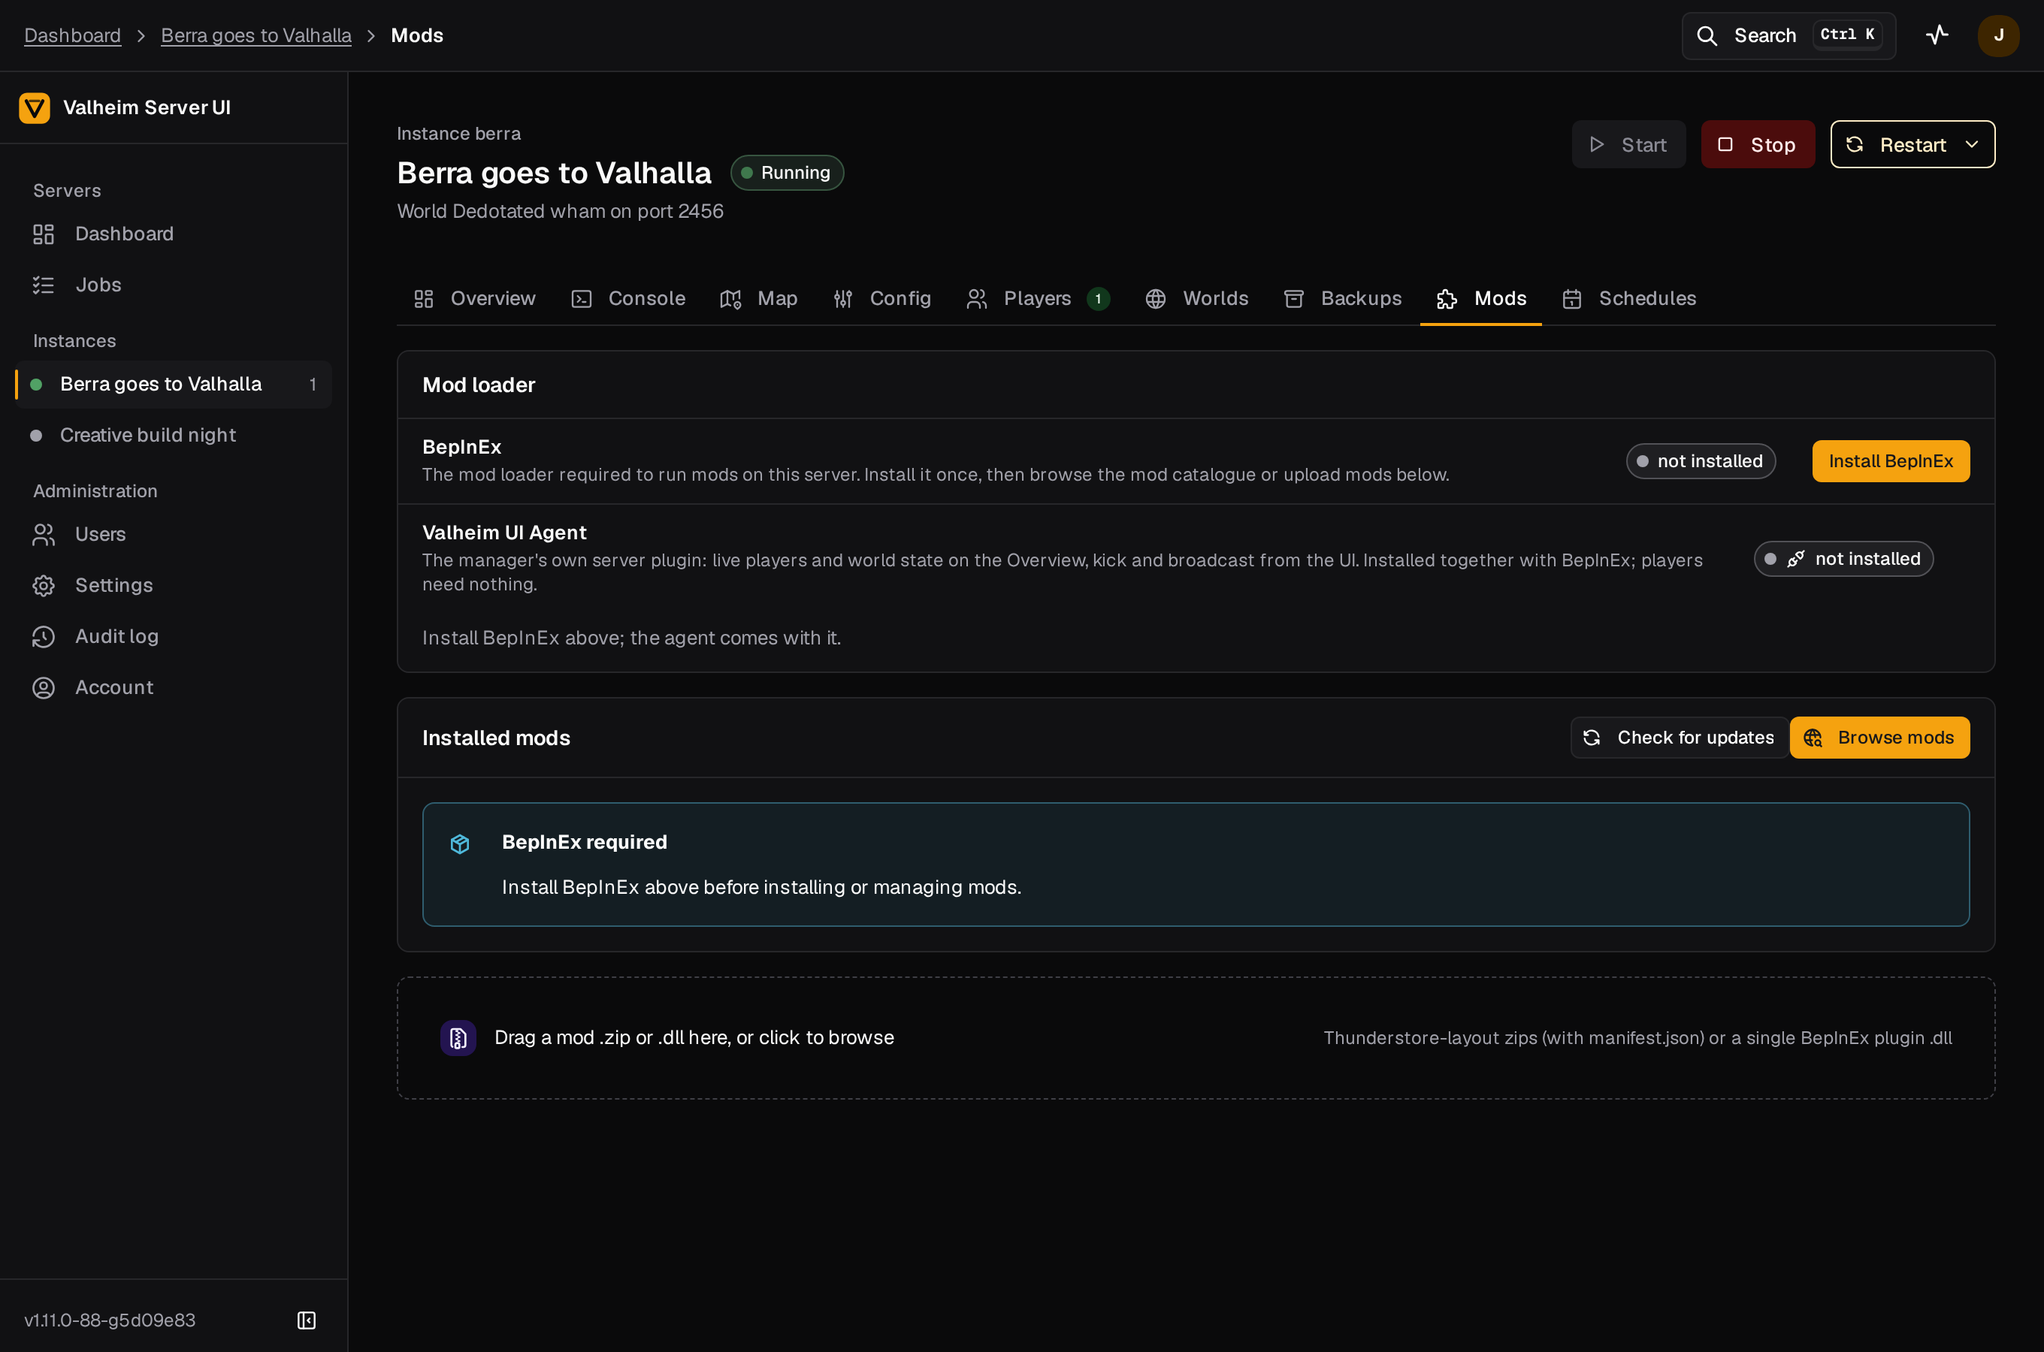
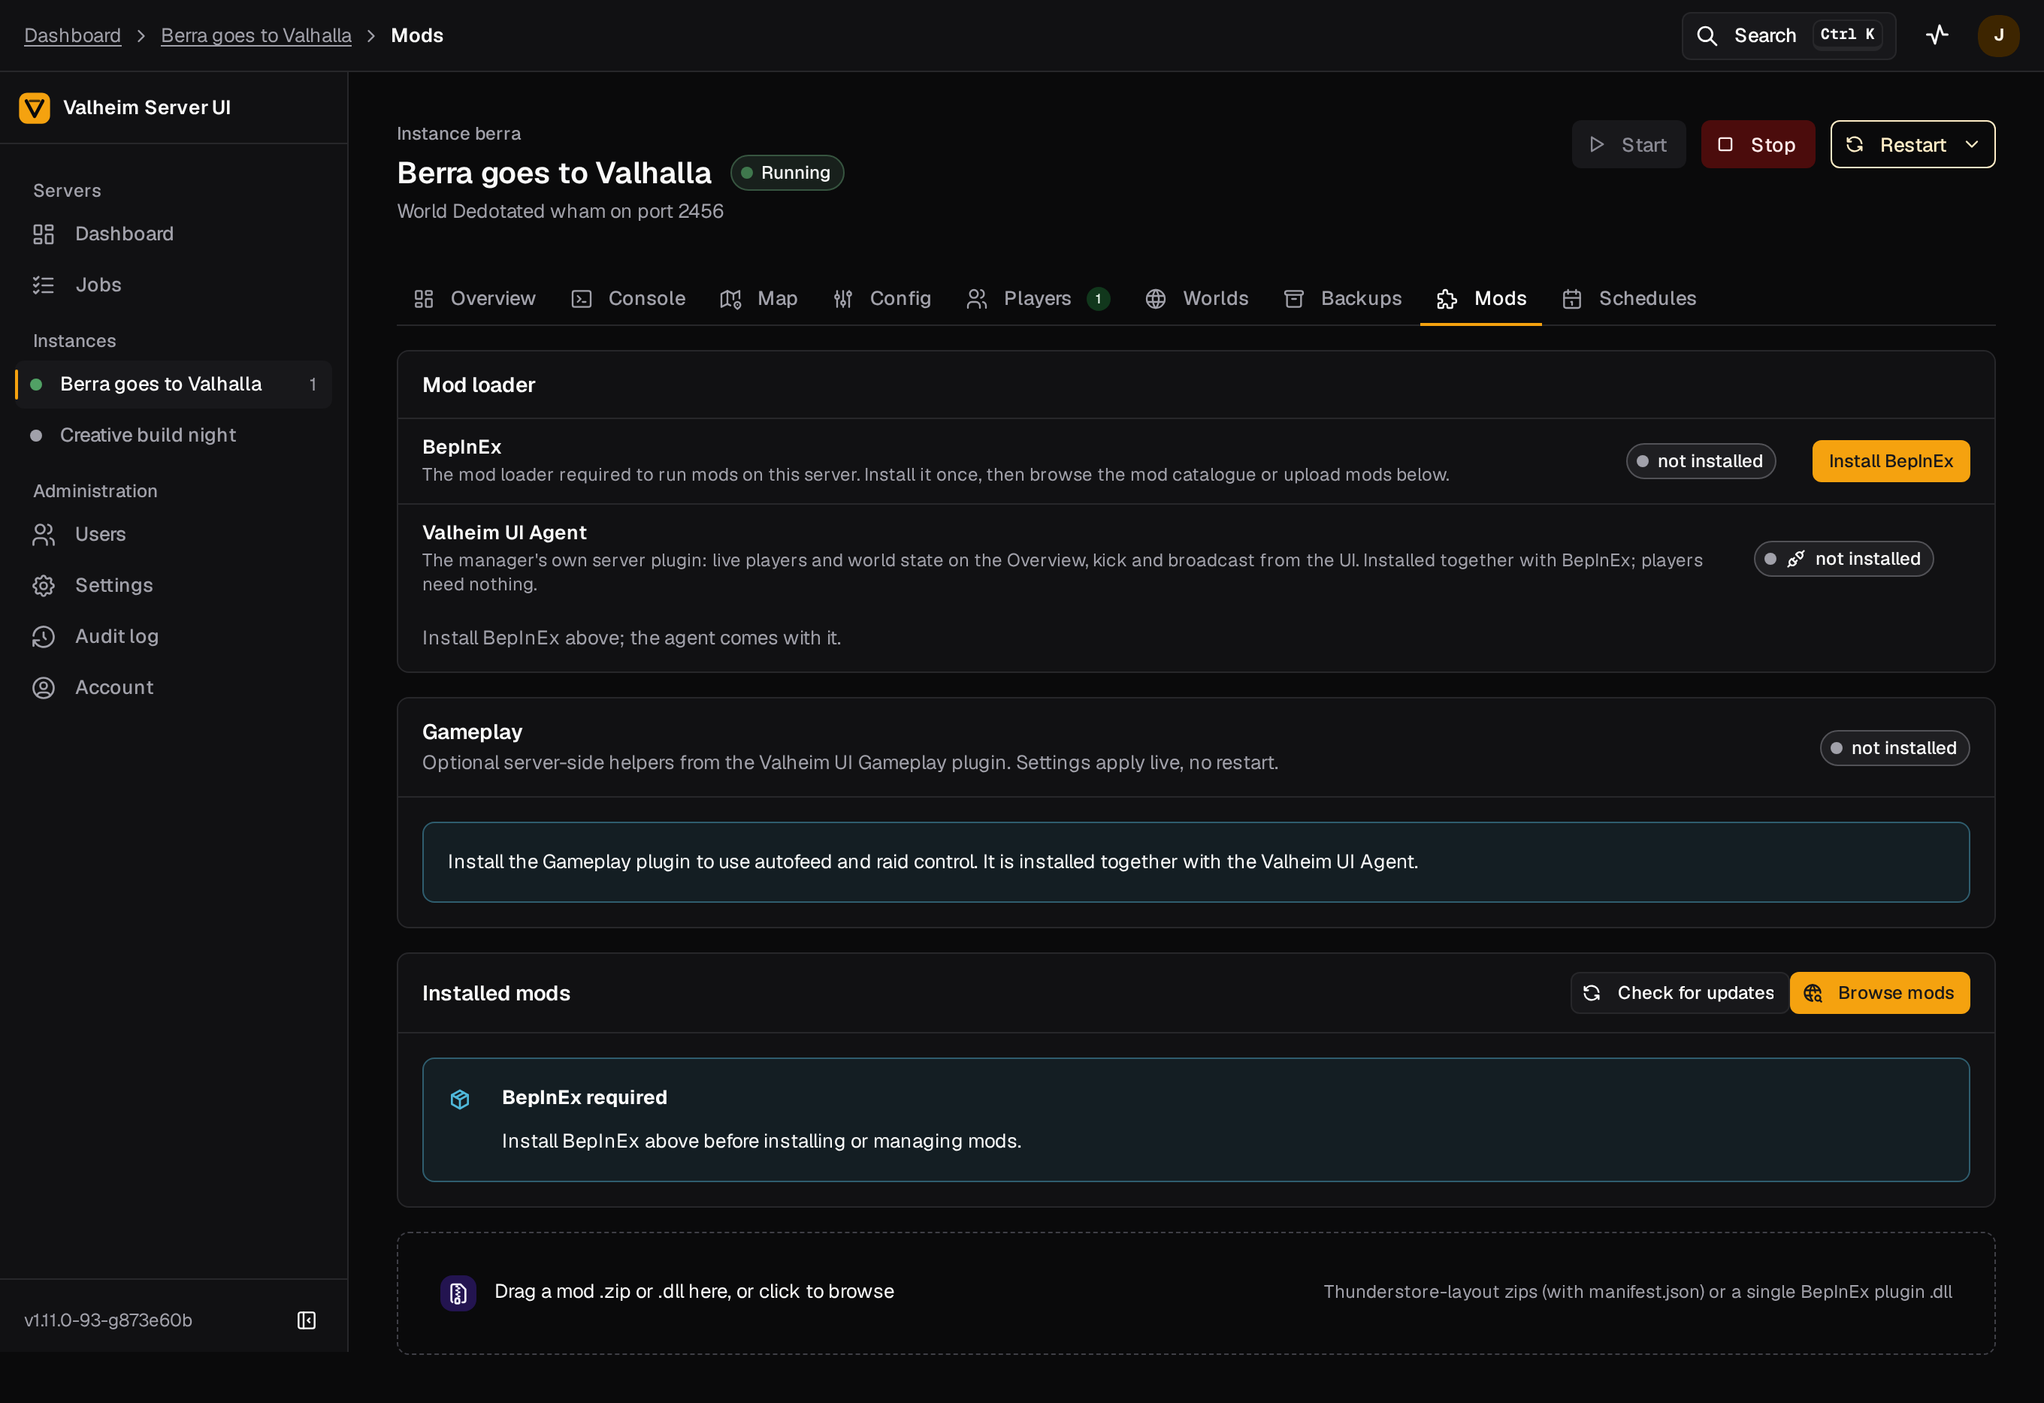
docs(gameplay): D-1 ARCHITECTURE §21, ADR-025, runbook rows, plugin README pointer

diff --git a/docs/ARCHITECTURE.md b/docs/ARCHITECTURE.md
@@ -950,3 +950,170 @@ explored or discovered by a shared boss pin. Shared pins are drawn
 regardless of the fog on their own layer; a boss pin that sits on a
 location is merged into that location's marker. Players are
 always drawn. Agents before 1.7.0 report no fog; the toggle explains why.
+
+## 21. Valheim UI Gameplay (server plugin)
+
+`ValheimUI.Gameplay` (`plugin/ValheimUI.Gameplay/`, C#, net472, BepInEx 5) is a
+second, opt-in server plugin: small gameplay tweaks (autofeed, a raid filter)
+that have nothing to do with the manager's own telemetry and control channel.
+It ships separately from the agent (ADR-025) so a server owner can disable or
+uninstall it without touching the live map, players panel or admin commands —
+and so it can later stand on its own on Thunderstore. GUID
+`se.jonasthim.valheimui.gameplay`, package `jonasthim-ValheimUI_Gameplay`
+(manifest `name` `ValheimUI_Gameplay`), DLL `ValheimUI.Gameplay.dll`, config
+`BepInEx/config/se.jonasthim.valheimui.gameplay.cfg`. Like the agent, it does
+nothing on a game client (`SystemInfo.graphicsDeviceType !=
+GraphicsDeviceType.Null` guard in `Awake()`) and never lets an exception
+escape `Update()` or a Harmony patch.
+
+**Config reference** (`Plugin.cs`'s `Config.Bind` calls; the manager's default
+copy is `gameplayConfigBody` in `internal/agent/config.go`):
+
+| Section | Key | Default | Range | Meaning |
+|---|---|---|---|---|
+| `Autofeed` | `Enabled` | `false` | — | Master switch for autofeed. |
+| `Autofeed` | `SignPrefix` | `feed` | — | Case-insensitive prefix of a sign's text that marks a chest as a feed chest. Empty marks every chest in range. |
+| `Autofeed` | `SignRadius` | `2.0` | 0.5–6 | Metres between the sign and the chest it marks. |
+| `Autofeed` | `Range` | `20` | 1–100 | Metres between a feed chest and the animal it can feed. |
+| `Autofeed` | `IntervalSeconds` | `30` | 5–600 | Seconds between scans for hungry animals. |
+| `Autofeed` | `Debug` | `false` | — | Logs each individual feed (animal prefab, chest prefab, distance). Added automatically if missing, so a hand-written cfg still loads. |
+| `Raids` | `Enabled` | `true` | — | Master switch for the raid filter. |
+| `Raids` | `Disabled` | (empty) | — | Comma-separated random event names that never start by themselves, e.g. `army_eikthyr,wolves`. The event command still starts them. |
+
+**Live reload.** A `FileSystemWatcher` on the cfg's directory (`ConfigReload.cs`)
+watches Created/Changed/Renamed — the manager writes the file atomically
+(tmp + rename), which surfaces as Renamed, not Changed — and marks the file
+dirty; `GameplayPlugin.Update()` calls `ConfigReload.Poll()`, which calls
+`Config.Reload()` on the main thread once the file has been quiet for 500 ms,
+guarded against reload storms by ignoring events for one second after a
+reload (BepInEx can touch the file itself). `Config.SettingChanged` then
+re-applies both features' values; the handler does not try to tell which
+entry moved and just re-applies everything, which is cheap.
+
+**Raid filter.** `RandEventSystem` (server-only) picks random events two
+ways, so the filter needs two Harmony patches (`RaidFilter.cs`):
+
+1. The normal path calls the private `GetPossibleRandomEvents()` to build the
+   candidate list, then picks one at random. A **postfix** on
+   `GetPossibleRandomEvents()` removes entries whose `RandomEvent.m_name` is
+   in `[Raids] Disabled` (case-insensitive) before anything is picked.
+2. "Standalone" events (`RandomEvent.m_standaloneInterval > 0`) are started
+   directly through the private `SetRandomEvent`, bypassing (1). A **prefix**
+   on `SetRandomEvent` returns `false` (skips the call) for a disabled name —
+   unless the call was forced by the public `SetRandomEventByName` (the
+   manager's `event` command and the game's own console command), which a
+   bypass flag (`_forced`, set by a prefix and always cleared by a
+   `HarmonyFinalizer` on `SetRandomEventByName`, so it never gets stuck true)
+   lets through regardless. Nothing is written to the world; a disabled raid
+   can always still be started deliberately.
+
+**Autofeed.** Tamed animals near players are simulated on the players'
+clients, so the server cannot call `MonsterAI`/`Tameable` methods on them
+directly. `Autofeed.cs` instead works on the ZDOs, the data the server owns
+the authoritative copy of and syncs to every peer, as a small state machine
+driven from `Update()`:
+
+- **Idle** until `Enabled` and `IntervalSeconds` have elapsed since the last
+  scan started.
+- **Scanning**: walks a one-time snapshot of every ZDO (a live
+  `Dictionary<ZDOID,ZDO>` is not safe to enumerate across frames) in slices
+  bounded by a 2 ms per-`Update()` budget — the same convention as the
+  agent's `MapRenderer.Step(budgetMs)` — bucketing each ZDO by its prefab's
+  components into signs with non-empty text, chests (`Container`) not
+  currently `InUse`, and tamed (`ZDOVars.s_tamed`) animals whose prefab has
+  both `Tameable` and a `MonsterAI` with at least one consumable item.
+- Once the snapshot is exhausted, **Match** and **Feed** run synchronously in
+  that `Update()` call: feed chests are chests within `SignRadius` of a sign
+  whose trimmed text starts with `SignPrefix` (every chest when `SignPrefix`
+  is empty); hungry tames are the game's own rule, `Tameable.IsHungry()`,
+  computed from the ZDO rather than the live component (most tamed animals in
+  the world are not loaded as game objects on the server): the time since
+  `ZDOVars.s_tameLastFeeding` exceeds `Tameable.m_fedDuration`. For each
+  hungry tame, the *nearest* feed chest within `Range` that still holds a
+  matching item (`Inventory` loaded once from `ZDOVars.s_items` via
+  `new ZPackage(bytes)`, `Load`) loses one unit (`RemoveOneItem`); the tame's
+  feeding timer is reset (`Set(ZDOVars.s_tameLastFeeding, …Ticks)`) and both
+  ZDOs are force-sent (`ZDOMan.ForceSendZDO`) so every peer picks the change
+  up at once. A chest's inventory is loaded once and saved once per scan even
+  if several animals eat from it; at most 200 feeds happen per scan.
+- Before matching, every candidate ZDO is re-validated against
+  `ZDOMan.instance.GetZDO(id)` by reference equality (`IsLive`): the scan
+  spans several frames, so an object destroyed meanwhile may have been
+  released to the ZDO pool and recycled, and only objects the world table
+  still maps to the same instance are used.
+- **Ownership caveat.** The plugin never takes ownership of a ZDO before
+  writing it. If the owning client overwrites the same ZDO in the same tick,
+  the feed is lost and simply retried on the next scan (eventually
+  consistent) — this is believed safe based on the design but not yet proven
+  live; the plugin README's validation protocol is the check. If it is not,
+  the documented (not implemented) fallback is to briefly take ownership of
+  the two ZDOs (`zdo.SetOwner(ZDOMan.GetSessionID())`, write, release next
+  frame).
+
+**Manager side** (`internal/agent`, `internal/mods/service.go`).
+
+- **Bundling.** `plugin/build.sh` builds both plugin projects and packages
+  two zips, `valheim-ui-agent.zip` and `valheim-ui-gameplay.zip` (same
+  Thunderstore layout). CI's `plugin` job uploads both in one `agent-plugin`
+  artifact; the release job copies both into `internal/agent/assets/`
+  (`//go:embed assets/*`) and lists both in `SHA256SUMS` and the release
+  notes.
+- `domain.BundledPlugin{Owner, Name, DLL, ConfigFile, Asset, Title,
+  EnvOverride}` describes each plugin; `domain.BundledAgent` and
+  `domain.BundledGameplay` are the two values. Env override
+  `VALHEIM_UI_GAMEPLAY_ZIP` mirrors `VALHEIM_UI_AGENT_ZIP` for local
+  development (`plugin/dist/*.zip` from `plugin/build.sh`), skipping the
+  embedded copy and the release download.
+- **Install.** `Service.installBundled(ctx, log, instanceID, plugin, bundle)`
+  is shared by both plugins: fetch the zip, extract it under the instance's
+  BepInEx directory, record it as a managed mod (source `bundled`). It runs
+  right after BepInEx (`installBepInEx`) and from
+  `EnqueueAgentInstall` (job type stays `agent_install`; job title "Install/
+  update Valheim UI plugins" — it now covers both). The agent's failure fails
+  the job; a missing or failing gameplay bundle is only a logged warning
+  ("… was not installed: …(install it later from the Mods tab)"), never a
+  failure of the agent install. After a successful gameplay install,
+  `agent.EnsureGameplayConfig(paths)` writes the default cfg
+  (`gameplayConfigBody`) atomically (tmp + rename) only if the file does not
+  exist yet, so the Gameplay card works before the first start; a failure to
+  write it is also only a warning.
+- **API.** No new endpoints. The card reads and writes the plugin's cfg
+  through the existing config-file endpoints (`GET`/`PUT
+  /instances/{id}/mods/configs/{fileName}`) and reads install state from the
+  mods overview (`mods[]` row `jonasthim-valheimui_gameplay`, `source:
+  bundled`, `version`) plus `agent.bundled_version` for "update available",
+  the same way the agent card does.
+
+**UI.** `GameplayCard` (`web/src/features/gameplay/`) sits on the Mods tab
+under the Mod loader card: header "Gameplay" with a pill (not installed /
+installed vX / update available), an Install/Update button for operators
+(reuses `useInstallAgent` and `openConfirmInstallAgent`, worded "plugins").
+Once installed, `useModConfig`/`useSaveModConfig(..., { notify: false })`
+back one form (`StickySaveBar`, `formId="gameplay-form"`,
+`useUnsavedChanges`) covering both sections: Autofeed's switch, sign prefix,
+sign radius, range and interval, and Raids' master switch plus a `DataTable`
+of raid names with a per-row "Allowed" `Switch`. The raid list comes from
+`useAgentCatalog` (connected agent, the world's real events) or the built-in
+`VANILLA_RAIDS` fallback (`web/src/features/gameplay/raids.ts`) when the agent
+is offline; `mergeRaidNames` (`gameplayConfig.ts`) keeps any name already in
+`Disabled` as a row even if it is unknown to either list, so nothing already
+switched off is lost from view. Saving shows "Gameplay settings saved,
+applied live". Viewers get the same controls disabled.
+
+**Testing.** Go: `internal/agent/agent_test.go`
+(`TestBundle_GameplayPluginIndependent`,
+`TestEnsureGameplayConfig_WritesDefaultOnceAndLeavesExistingFileAlone`) and
+`internal/mods/agent_test.go`
+(`TestInstallBepInEx_AlsoInstallsTheGameplayPluginAndDefaultCfg`,
+`TestInstallBepInEx_FailingGameplayBundleIsOnlyAWarning`, and an update-path
+case), all table-driven against a fake bundle, no network. Frontend:
+`gameplayConfig.test.ts` covers the pure cfg-entry mapping
+(`fromEntries`/`toUpdates`/`mergeRaidNames`) with Node's own test runner
+(`node --experimental-strip-types --test
+web/src/features/gameplay/gameplayConfig.test.ts`), since the e2e fake agent
+only reaches the "not installed" state. In-game: the plugin README's
+validation protocol (place a signed feed chest, tame animals nearby, toggle
+Autofeed from the manager, confirm the chest empties, the animals stop
+showing hungry, and a wrongly-signed or out-of-range chest/animal is left
+alone) is the check for the ZDO-ownership caveat above; it has not yet been
+run against a live server.

diff --git a/docs/DECISIONS.md b/docs/DECISIONS.md
@@ -224,3 +224,32 @@ reveal terrain (the server sees them), which matches the game's own rule
 that exploration is not secret. The table format is parsed best effort and
 skipped on error, so a game update can degrade history without breaking the
 map.
+
+## ADR-025 Gameplay tweaks ship as a second bundled plugin
+
+**Context.** Jonas asked for two gameplay changes that have nothing to do
+with telemetry or control: feed hungry tamed animals from sign-marked
+chests, and let specific random events (raids) be switched off. The agent
+(ADR-022) is the manager's control and telemetry channel and must stay
+harmless to gameplay — nothing it does should change what happens in the
+world. Folding these into the agent would mix that guarantee with features
+players might reasonably want to turn off independently, and would make the
+agent harder to keep stable across game updates.
+
+**Decision.** Ship the gameplay tweaks as a separate BepInEx plugin,
+`ValheimUI.Gameplay` (docs/ARCHITECTURE.md §21), bundled and installed the
+same way as the agent — with BepInEx, and from the same "Install/update
+Valheim UI plugins" job — but as its own assembly, package, cfg file and
+Mods-tab card. It can be disabled or uninstalled without touching the agent,
+the live map, or any other part of the manager, and could later be
+distributed on Thunderstore on its own.
+
+**Consequences.** Two plugin zips to build, test and release
+(`valheim-ui-agent.zip`, `valheim-ui-gameplay.zip`) instead of one; `plugin/
+build.sh` and the CI `plugin` job build and upload both, and the release job
+embeds both. One install job still covers both (the job type stays
+`agent_install`; only its title changed), so operators do not get a second
+button to press. No new API: the Gameplay card reuses the existing
+config-file endpoints. A failure to install or default-configure the
+gameplay plugin is only a warning, never a failure of the agent install,
+since the agent is the one the job (and BepInEx install) is named for.

diff --git a/README.md b/README.md
@@ -31,6 +31,7 @@ server into a Docker puzzle.
 | **Backups & worlds** | One-click or scheduled world backups, retention policy, restore with an automatic safety backup, world upload/download, switch the active world. |
 | **Mods** | Install BepInEx, browse and install from Thunderstore with dependency resolution, upload zips or DLLs, enable/disable/update/uninstall, and edit plugin `.cfg` files with typed inputs. |
 | **Live world (agent)** | Our own server plugin, installed with BepInEx: day, in-game clock, weather, world keys and players with positions straight from the running server, plus save-now, kick and an in-game broadcast to all players. Nothing to install for players. |
+| **Gameplay helpers** | Autofeed from sign-marked chests, per-raid switches — server-side, players install nothing. A second, separately bundled plugin: turn it off without touching the agent or the live map. |
 | **Live map** | The world drawn like the in-game map from the server's own sampling: textured biomes, tree crowns, hill shading, coastlines, parchment fog with a cloudy edge, game-style icons, and tiles drawn on demand so it stays sharp at any zoom. Fog of war from where players have been and from cartography tables, shared pins, boss locations found at Vegvisir stones, players moving live, portals and their tags, ships, carts, tombstones and beds as layers; drifting clouds, water shimmer and pings as in the game. Custom texture packs. |
 | **Schedules** | Cron-based restarts, backups and Steam update checks with a "only when nobody is online" switch. |
 | **Updates** | Detects new Valheim builds on Steam and updates with an optional pre-update backup. |

diff --git a/docs/RUNBOOK.md b/docs/RUNBOOK.md
@@ -223,6 +223,8 @@ proven.
 | Live console stops updating behind a proxy | Buffering: add `proxy_buffering off` (nginx) or `flush_interval -1` (Caddy). |
 | "cross-origin request rejected" | `base_url` does not match the host the browser uses. |
 | Scheduled restart never fires | Schedules with `only_when_empty` skip while players are online; see the schedule's last result. Valheim cannot warn players, so this is by design. |
+| Autofeed does nothing | Check, in order: the Valheim UI Gameplay plugin is installed (Mods tab → Gameplay card) and its Autofeed switch is on; the sign's text does not start with the configured prefix (case-insensitive); the sign is farther than the sign radius from the chest; the animal is farther than the range from the chest; the animal is not hungry yet (the game's own feed timer, ~30 s for most vanilla animals); the chest is open by a player (skipped that scan, retried next scan). `BepInEx/LogOutput.log` on the game server has an `autofeed:` line per scan that fed something; enable `[Autofeed] Debug` in the cfg (or from the Gameplay card) for a line per feed. |
+| A raid I switched off still happened | It was started deliberately with the manager's or console's `event` command — the raid filter never blocks that, by design (ADR-025). Or the name in `[Raids] Disabled` differs from the world's actual event name: read the Raids table on the Gameplay card while the agent is connected (it lists the world's own names) rather than guessing. Or the Raids master switch on the Gameplay card is off. |
 
 ## 10. Uninstall
 

diff --git a/plugin/README.md b/plugin/README.md
@@ -28,3 +28,9 @@ Configuration: `BepInEx/config/se.jonasthim.valheimui.agent.cfg`. The API only
 listens on 127.0.0.1 unless `BindAddress` is changed. `[Chat] ServerName`
 overrides the name the `say` command speaks as; empty uses the game's server
 name.
+
+A second, separate plugin, [Valheim UI Gameplay](ValheimUI.Gameplay/README.md),
+ships alongside this one: opt-in gameplay tweaks (autofeed from sign-marked
+chests, a per-raid on/off filter) with their own cfg file and Mods-tab card,
+installed and updated the same way but independently enabled, disabled or
+uninstalled — it has no effect on anything above.
